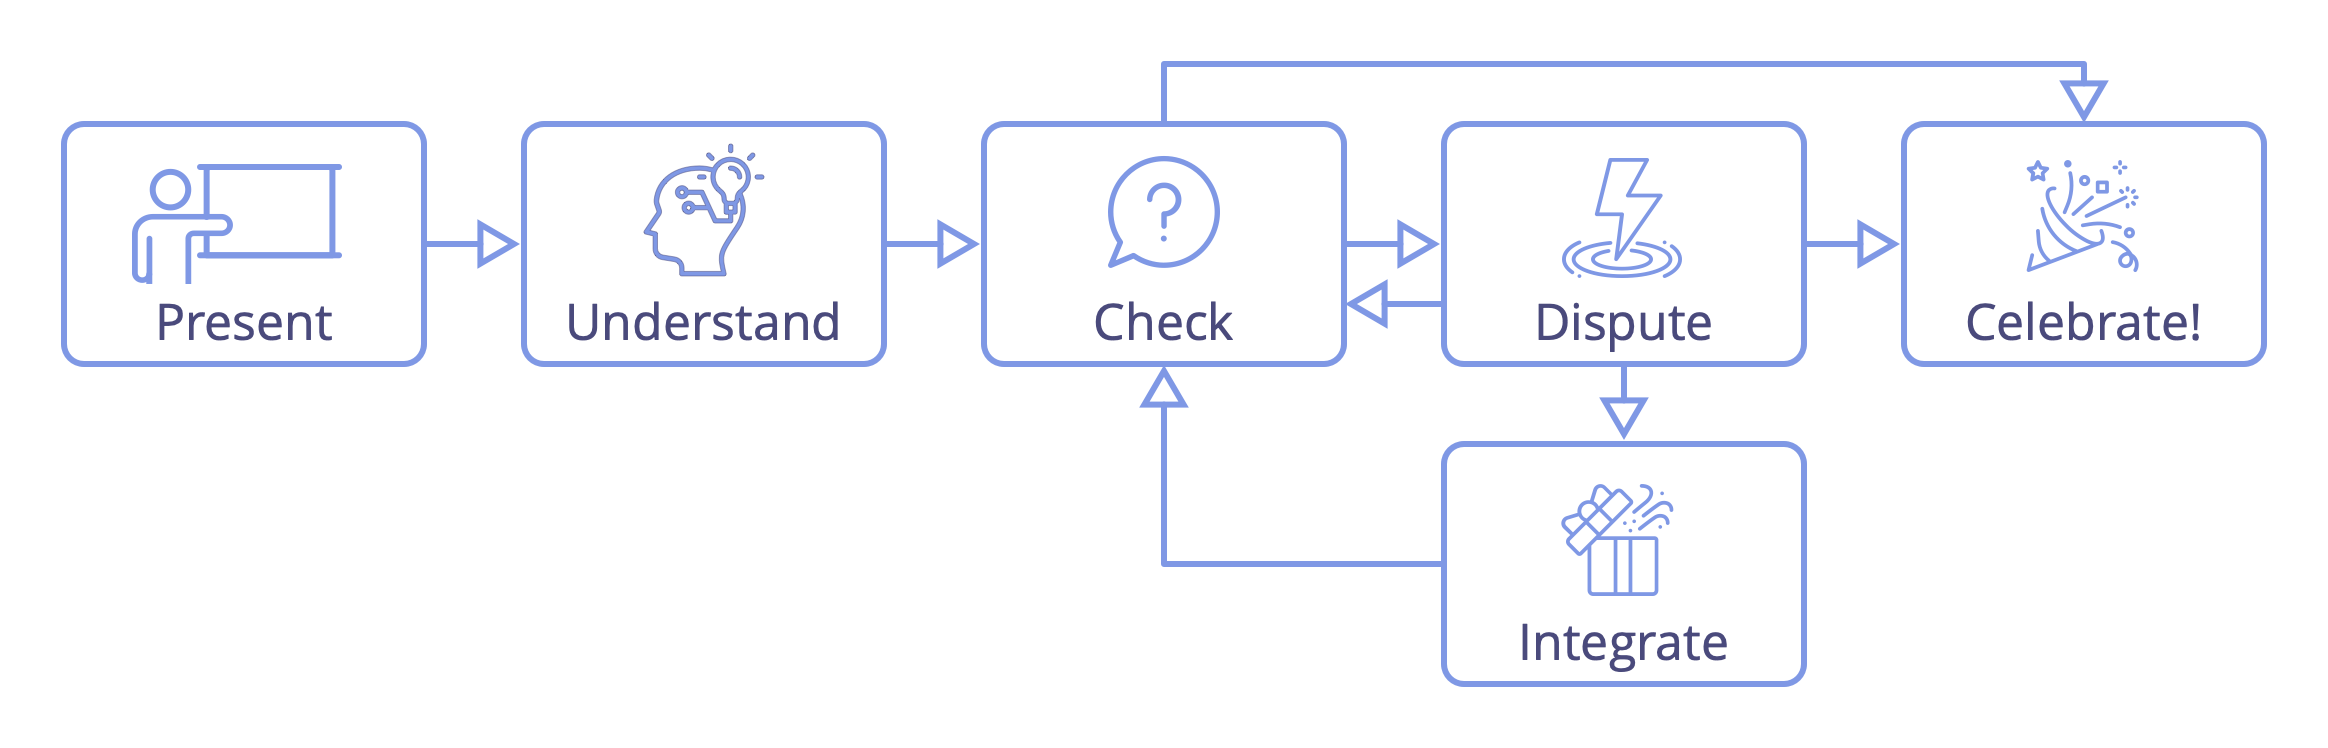
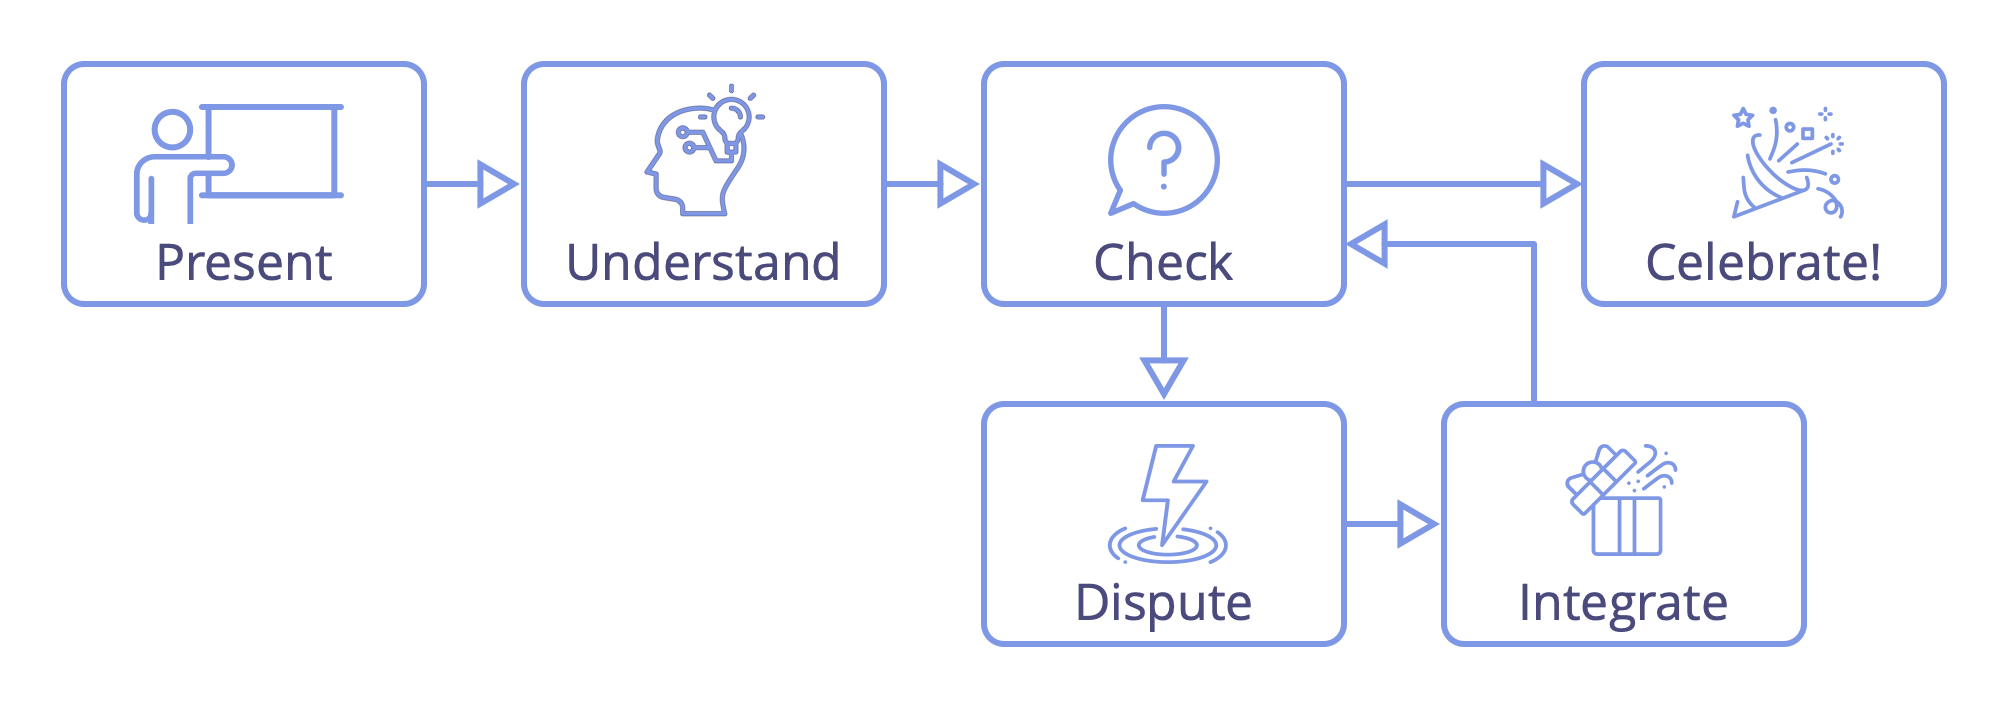
revised text and illustration of RDM

diff --git a/content/src/patterns/sense-making-and-decision-making/reasoned-decision-making.md b/content/src/patterns/sense-making-and-decision-making/reasoned-decision-making.md
@@ -10,11 +10,11 @@ The steps of the process:
 
 -   **Present** the subject for investigation (this could be an argument, or a proposal for how to proceed).
 -   **Understand** the subject (e.g. through clarifying questions).
-Check if there are any disagreements on the relevance, validity or truthfulness of the subject (e.g. using hand signs).
--   If there are any disagreements, take one at a time and:
+-   **Check** if there are any disagreements on the relevance, validity or truthfulness of the subject (e.g. using hand signs). If there are any disagreements, take one at a time and:
     -   **Dispute**: check if the argument put forward makes sense (using the same process).
-    -   **Integrate** information revealed in the previous step to improve the subject.
-If there is no disagreement, or after all disputes have been resolved, **celebrate** reaching agreement.
+    -   **Integrate** any information revealed in the previous step to improve the subject.
+    -   then **check** again for disagreement on the improved subject. 
+-   If there is no disagreement, **celebrate** reaching agreement.
 
 ![Reasoned Decision-Making](img/agreements/reasoned-decision-making.png)
 
